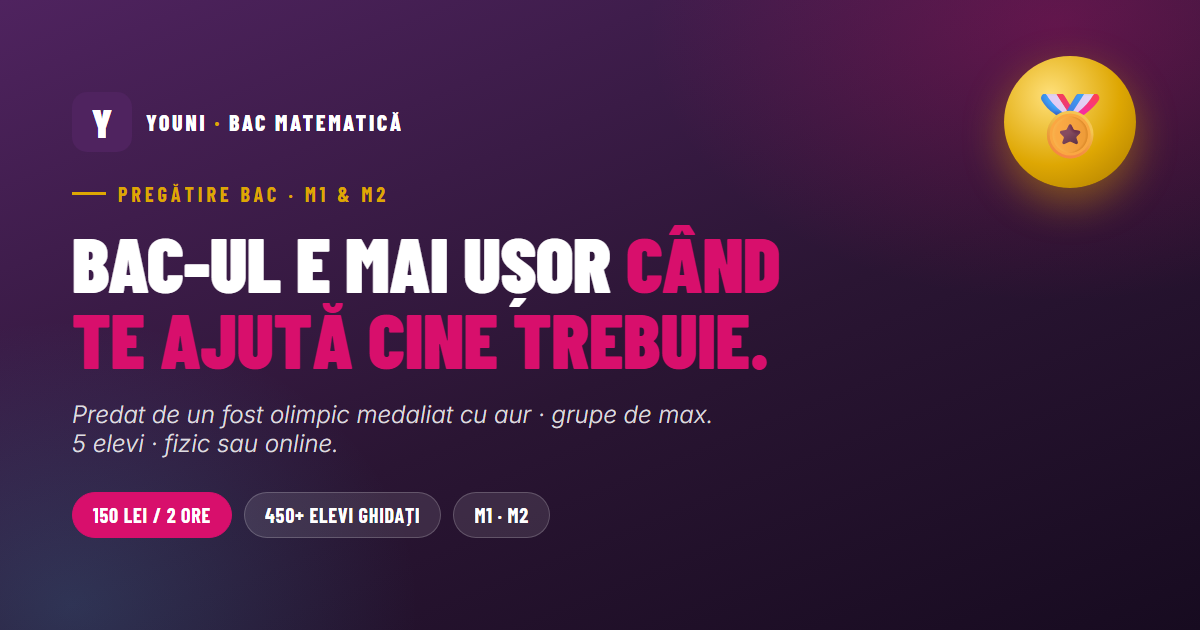
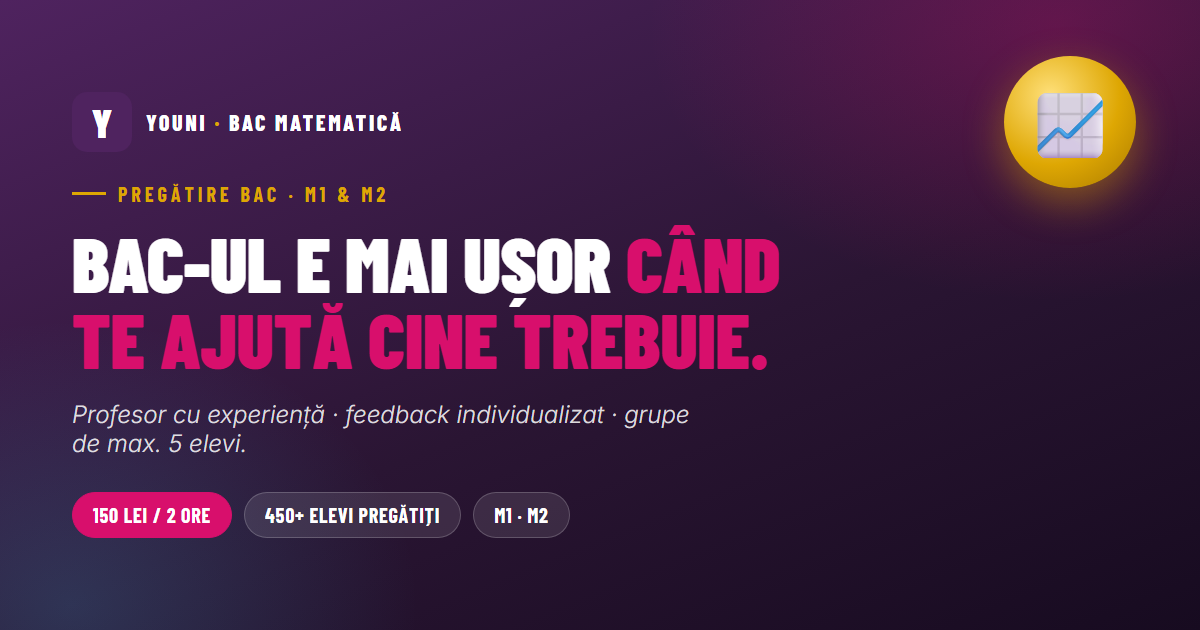
content: reframe per feedback profesor + poză reală Andrei
- de-emphasize "olimpic/aur" ca lead → "profesor cu experiență" + feedback individualizat
- păstrează "fost olimpic internațional" doar ca detaliu factual (secțiune profesor)
- "exact ce cere BAC-ul" → "pregătire eficientă"; card 3 → "feedback individualizat"
- 450+ reframat "elevi pregătiți la matematică" (scoate claim olimpiade)
- bio: algebră liniară & analiză + predare aplicată (scoate geometrie diferențială)
- poză reală profesor (andrei-cocalea.webp, 28KB) în avatar circular
- og-image + meta actualizate pe noul mesaj

Changed region(s): [[0.0617, 0.6333, 0.5858, 0.7238], [0.3083, 0.7841, 0.4625, 0.8444], [0.8633, 0.1508, 0.925, 0.2714]]

diff --git a/index.html b/index.html
@@ -4,7 +4,7 @@
 <meta charset="UTF-8">
 <meta name="viewport" content="width=device-width, initial-scale=1.0">
 <title>Youni — Pregătire BAC Matematică (M1 & M2)</title>
-<meta name="description" content="Pregătire pentru BAC-ul de Matematică (M1 și M2) cu un fost olimpic medaliat cu aur. Grupe de maximum 5 elevi, fizic sau online. 150 lei / ședință de 2 ore.">
+<meta name="description" content="Pregătire pentru BAC-ul de Matematică (M1 și M2) cu un profesor cu experiență, feedback individualizat în fiecare ședință. Grupe de maximum 5 elevi, fizic sau online. 150 lei / ședință de 2 ore.">
 
 <meta name="keywords" content="pregătire BAC matematică, meditații matematică BAC, BAC M1 M2, meditații mate online, Youni">
 <meta name="theme-color" content="#4f235f">
@@ -16,12 +16,12 @@
 <meta property="og:site_name" content="Youni">
 <meta property="og:locale" content="ro_RO">
 <meta property="og:title" content="Youni — Pregătire BAC Matematică (M1 & M2)">
-<meta property="og:description" content="Predat de un fost olimpic cu aur. Grupe de max. 5 elevi, fizic sau online. 150 lei / 2 ore.">
+<meta property="og:description" content="Profesor cu experiență, feedback individualizat. Grupe de max. 5 elevi, fizic sau online. 150 lei / 2 ore.">
 <meta property="og:url" content="https://www.pregatire-bac.younichoice.com/">
 <meta property="og:image" content="https://www.pregatire-bac.younichoice.com/og-image.png">
 <meta name="twitter:card" content="summary_large_image">
 <meta name="twitter:title" content="Youni — Pregătire BAC Matematică (M1 & M2)">
-<meta name="twitter:description" content="Predat de un fost olimpic cu aur. Grupe de max. 5 elevi, fizic sau online.">
+<meta name="twitter:description" content="Profesor cu experiență, feedback individualizat. Grupe de max. 5 elevi, fizic sau online.">
 <meta name="twitter:image" content="https://www.pregatire-bac.younichoice.com/og-image.png">
 
 <link rel="preconnect" href="https://fonts.googleapis.com">
@@ -179,8 +179,8 @@
       repeating-linear-gradient(45deg, rgba(255,255,255,.04) 0 12px, transparent 12px 24px),
       linear-gradient(135deg,var(--pu-l) 0%,var(--pu-d) 100%);
     display:flex; flex-direction:column; align-items:center; justify-content:center; text-align:center; padding:40px 24px; min-height:320px}
-  .prof-photo .avatar{width:110px; height:110px; border-radius:50%; border:2px dashed rgba(255,255,255,.4);
-    background:rgba(255,255,255,.06); display:grid; place-items:center; font-size:50px; color:rgba(255,255,255,.55); margin-bottom:16px}
+  .prof-photo .pimg{width:150px; height:150px; border-radius:50%; object-fit:cover; margin-bottom:16px;
+    border:3px solid rgba(255,255,255,.85); box-shadow:0 12px 34px rgba(0,0,0,.4)}
   .prof-photo .pname{font-family:'Barlow Condensed',sans-serif; font-weight:800; text-transform:uppercase; font-size:24px; color:#fff; letter-spacing:.3px}
   .prof-photo .pnote{font-size:12px; letter-spacing:1px; color:rgba(255,255,255,.55); margin-top:6px; text-transform:uppercase}
   .prof-body{padding:38px 40px; color:#fff}
@@ -303,7 +303,7 @@
     <div class="hero-copy">
       <div class="eye">Pregătire BAC Matematică · M1 &amp; M2</div>
       <h1>BAC-ul e mai ușor <em>când te ajută cine trebuie.</em></h1>
-      <p class="hero-sub">Pregătire predată de un <b>fost olimpic medaliat cu aur</b>, în grupe mici, fizic sau online. Concentrat pe exact ce cere examenul — M1 și M2.</p>
+      <p class="hero-sub">Pregătire predată de un <b>profesor cu experiență</b>, în grupe mici, fizic sau online — cu <b>feedback individualizat</b> în fiecare ședință. M1 și M2.</p>
       <div class="hero-cta">
         <a class="btn btn-wa btn-lg" href="https://wa.me/40774051652?text=Bun%C4%83!%20Vreau%20detalii%20despre%20preg%C4%83tirea%20la%20BAC%20Matematic%C4%83." target="_blank" rel="noopener">
           <svg class="wa-ico" viewBox="0 0 32 32" fill="currentColor" aria-hidden="true"><path d="M16 3C9 3 3.5 8.5 3.5 15.5c0 2.3.6 4.4 1.7 6.3L3 29l7.4-2.1c1.8 1 3.9 1.5 6 1.5 7 0 12.5-5.5 12.5-12.5S23 3 16 3zm0 22.7c-1.9 0-3.7-.5-5.3-1.5l-.4-.2-4.4 1.2 1.2-4.3-.2-.4c-1-1.6-1.6-3.5-1.6-5.5C5.5 9.9 10.2 5.2 16 5.2s10.5 4.7 10.5 10.3S21.8 25.7 16 25.7zm6-7.7c-.3-.2-1.9-1-2.2-1-.3-.1-.5-.2-.7.2s-.8 1-1 1.2c-.2.2-.4.2-.7.1-.3-.2-1.4-.5-2.6-1.6-1-.9-1.6-2-1.8-2.3-.2-.3 0-.5.1-.7l.5-.6c.2-.2.2-.3.4-.6.1-.2 0-.4 0-.6l-1-2.4c-.3-.6-.5-.5-.7-.5h-.6c-.2 0-.5.1-.8.4-.3.3-1 1-1 2.5s1.1 2.9 1.2 3.1c.2.2 2.1 3.3 5.1 4.6.7.3 1.3.5 1.7.6.7.2 1.4.2 1.9.1.6-.1 1.9-.8 2.1-1.5.3-.8.3-1.4.2-1.5-.1-.2-.3-.2-.6-.4z"/></svg>
@@ -320,10 +320,10 @@
     </div>
     <div class="hero-visual">
       <div class="hv-card">
-        <div class="hv-medal">🏅</div>
-        <div class="k">Profesor olimpic</div>
+        <div class="hv-medal">📈</div>
+        <div class="k">Profesor cu experiență</div>
         <div class="big">450+</div>
-        <div class="lbl">elevi duși la rezultate excepționale</div>
+        <div class="lbl">elevi pregătiți la matematică</div>
       </div>
       <span class="hv-badge go">M1 · M2</span>
     </div>
@@ -335,7 +335,7 @@
   <div class="wrap">
     <div class="proof-grid">
       <div><div class="n">6.000+</div><div class="l">Elevi pregătiți prin Youni</div></div>
-      <div><div class="n">450+</div><div class="l">Elevi ghidați spre performanță</div></div>
+      <div><div class="n">450+</div><div class="l">Elevi pregătiți la matematică</div></div>
       <div><div class="n">M1 · M2</div><div class="l">Ambele niveluri de BAC</div></div>
     </div>
   </div>
@@ -347,9 +347,9 @@
     <div class="eye">De ce aici</div>
     <h2 class="stitle">Pregătire făcută pentru rezultat, nu pentru bifă</h2>
     <div class="grid-3" style="text-align:left">
-      <div class="card"><div class="ic">🎯</div><h3>Exact ce cere BAC-ul</h3><p>Focus pe M1 și M2 — subiectele, tipurile de probleme și strategia de examen, nu teorie inutilă.</p></div>
+      <div class="card"><div class="ic">🎯</div><h3>Pregătire eficientă</h3><p>Focus pe M1 și M2 — subiectele, tipurile de probleme și strategia de examen, nu teorie inutilă.</p></div>
       <div class="card"><div class="ic">👥</div><h3>Grupe mici</h3><p>Maximum 5 elevi în grupă = atenție reală pentru fiecare, întrebări lămurite pe loc, ritm potrivit.</p></div>
-      <div class="card"><div class="ic">🏅</div><h3>Predat de un olimpic</h3><p>Un fost olimpic medaliat cu aur, care a dus deja 450+ elevi la rezultate excepționale.</p></div>
+      <div class="card"><div class="ic">📝</div><h3>Feedback individualizat</h3><p>În fiecare ședință afli exact ce ai de îmbunătățit — nu doar rezolvi, ci înțelegi unde stai și cum crești punctajul.</p></div>
     </div>
   </div>
 </section>
@@ -361,19 +361,19 @@
     <h2 class="stitle">Profesorul tău</h2>
     <div class="prof-card">
       <div class="prof-photo">
-        <div class="avatar" aria-hidden="true">👤</div>
+        <img src="andrei-cocalea.webp" alt="Andrei Cocalea — profesor de matematică" class="pimg" width="700" height="700" loading="lazy">
         <div class="pname">Andrei Cocalea</div>
-        <div class="pnote">Foto — în curând</div>
+        <div class="pnote">Profesor de matematică</div>
       </div>
       <div class="prof-body">
         <h3>Andrei Cocalea</h3>
-        <div class="prof-tag">Profesor de matematică · fost olimpic · M1 &amp; M2</div>
-        <p class="prof-bio">Predă matematică din 2018, cu debutul la Mark Twain International School. A crescut la Constanța, într-o familie de dascăli, și a intrat de tânăr în lumea olimpiadelor de matematică. Și-a făcut licența în geometrie diferențială — atras de eleganța și de aplicațiile ei în teoria relativității.</p>
+        <div class="prof-tag">Profesor cu experiență · fost olimpic internațional</div>
+        <p class="prof-bio">Predă matematică din 2018, cu debutul la Mark Twain International School. A crescut la Constanța, într-o familie de dascăli. Predare aplicată, cu feedback individualizat în fiecare ședință — înțelegi mecanismul, nu memorezi rețete.</p>
         <ul class="prof-list">
           <li><span class="chk">✓</span><span>Predă matematică <b>din 2018</b>, cu debutul la <b>Mark Twain International School</b>.</span></li>
-          <li><span class="chk">✓</span><span><b>Fost olimpic</b> la matematică — calificat la olimpiada națională.</span></li>
-          <li><span class="chk">✓</span><span>Licență în <b>geometrie diferențială</b>.</span></li>
-          <li><span class="chk">✓</span><span>Specializat pe grupe de nivel <b>M1 și M2</b> — predare aplicată: înțelegi mecanismul, nu memorezi rețete.</span></li>
+          <li><span class="chk">✓</span><span><b>Feedback individualizat</b> în fiecare ședință — știi mereu ce ai de îmbunătățit.</span></li>
+          <li><span class="chk">✓</span><span>Pasionat de <b>algebră liniară și analiză</b> — exact zonele care contează la BAC.</span></li>
+          <li><span class="chk">✓</span><span><b>Predare aplicată</b>: pornești de la mecanism, nu de la rețete memorate.</span></li>
         </ul>
       </div>
     </div>
@@ -408,7 +408,7 @@
       <div class="price">150 lei <span>/ ședință</span></div>
       <p class="dur">O ședință = <b>2 ore</b> de pregătire · <b>1 credit</b> pe Youni Academy.</p>
       <div class="offer-note">✓ Plătești per credit — fără abonament</div>
-      <p class="offer-why">De ce 150 lei: pregătire cu un fost olimpic medaliat cu aur, care a dus 450+ elevi la rezultate — grupă mică, atenție reală.</p>
+      <p class="offer-why">De ce 150 lei: pregătire cu un profesor cu experiență, feedback individualizat în fiecare ședință, grupă mică — atenție reală pentru fiecare.</p>
       <div class="offer-feats">
         <span class="feat">👥 Max. 5 elevi/grupă</span>
         <span class="feat">💻 Fizic sau online</span>
@@ -467,7 +467,7 @@
       <details><summary>Se face online sau fizic?</summary><p>Ambele — alegi formatul care ți se potrivește: fizic sau online.</p></details>
       <details><summary>Ce nivel se predă?</summary><p>Atât M1, cât și M2 — pregătire dedicată pentru fiecare tip de BAC.</p></details>
       <details><summary>Cât de mari sunt grupele?</summary><p>Grupe de maximum 5 elevi, ca fiecare să primească atenție reală.</p></details>
-      <details><summary>Cine predă?</summary><p>Andrei Cocalea — un fost olimpic medaliat cu aur la matematică, care a ghidat peste 450 de elevi spre rezultate excepționale.</p></details>
+      <details><summary>Cine predă?</summary><p>Andrei Cocalea — profesor de matematică din 2018 (debut la Mark Twain International School), fost olimpic internațional. Predare aplicată, cu feedback individualizat în fiecare ședință.</p></details>
     </div>
   </div>
 </section>
